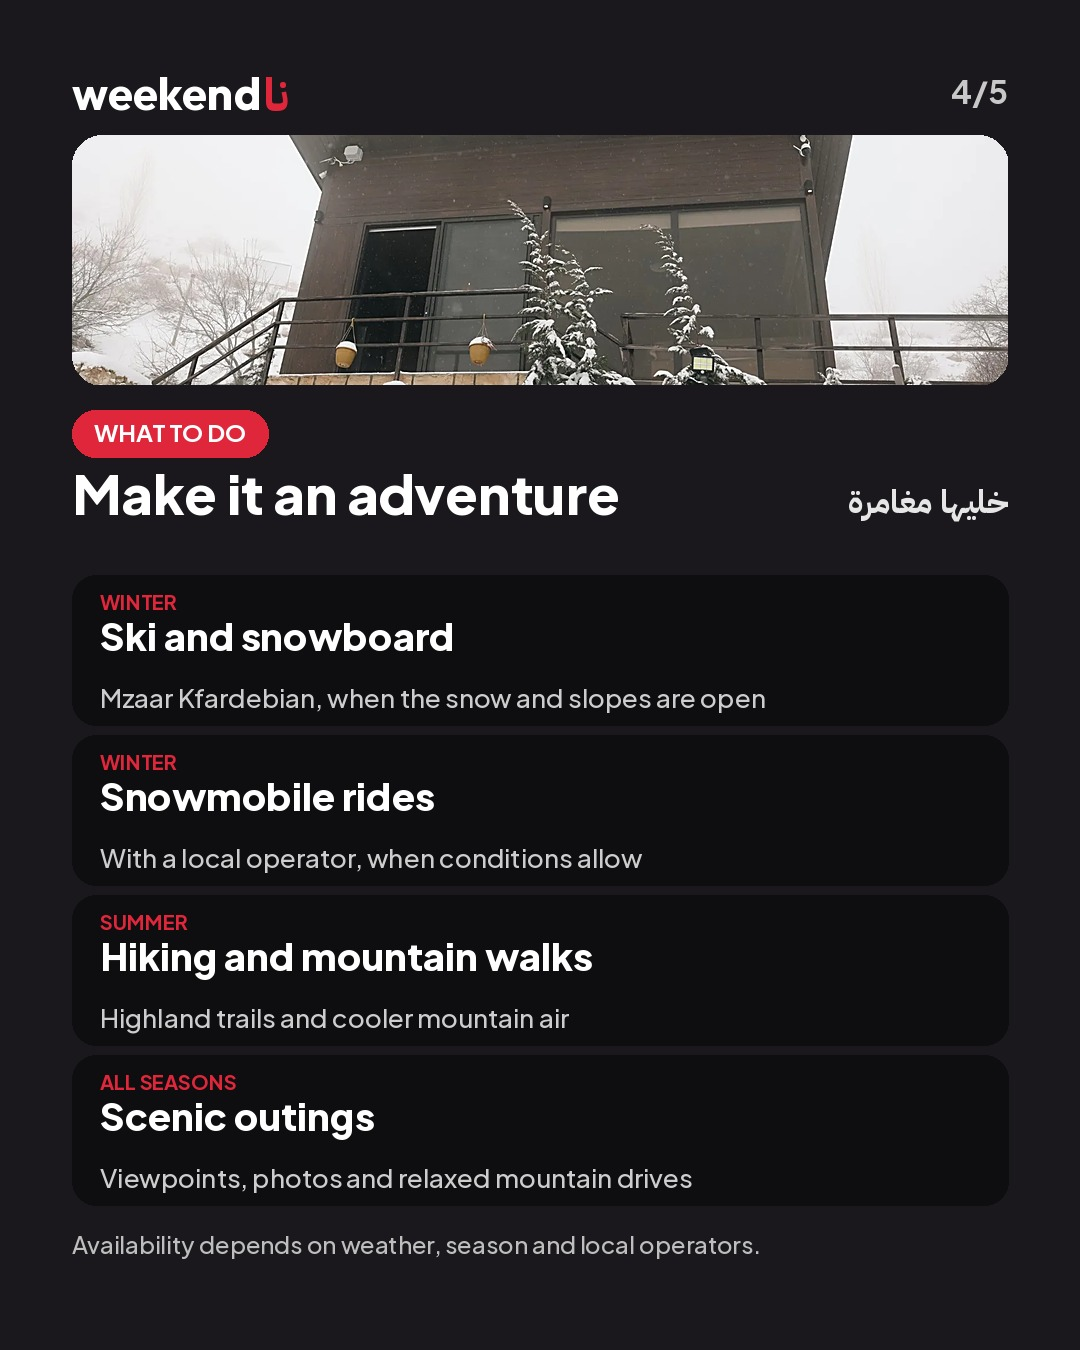
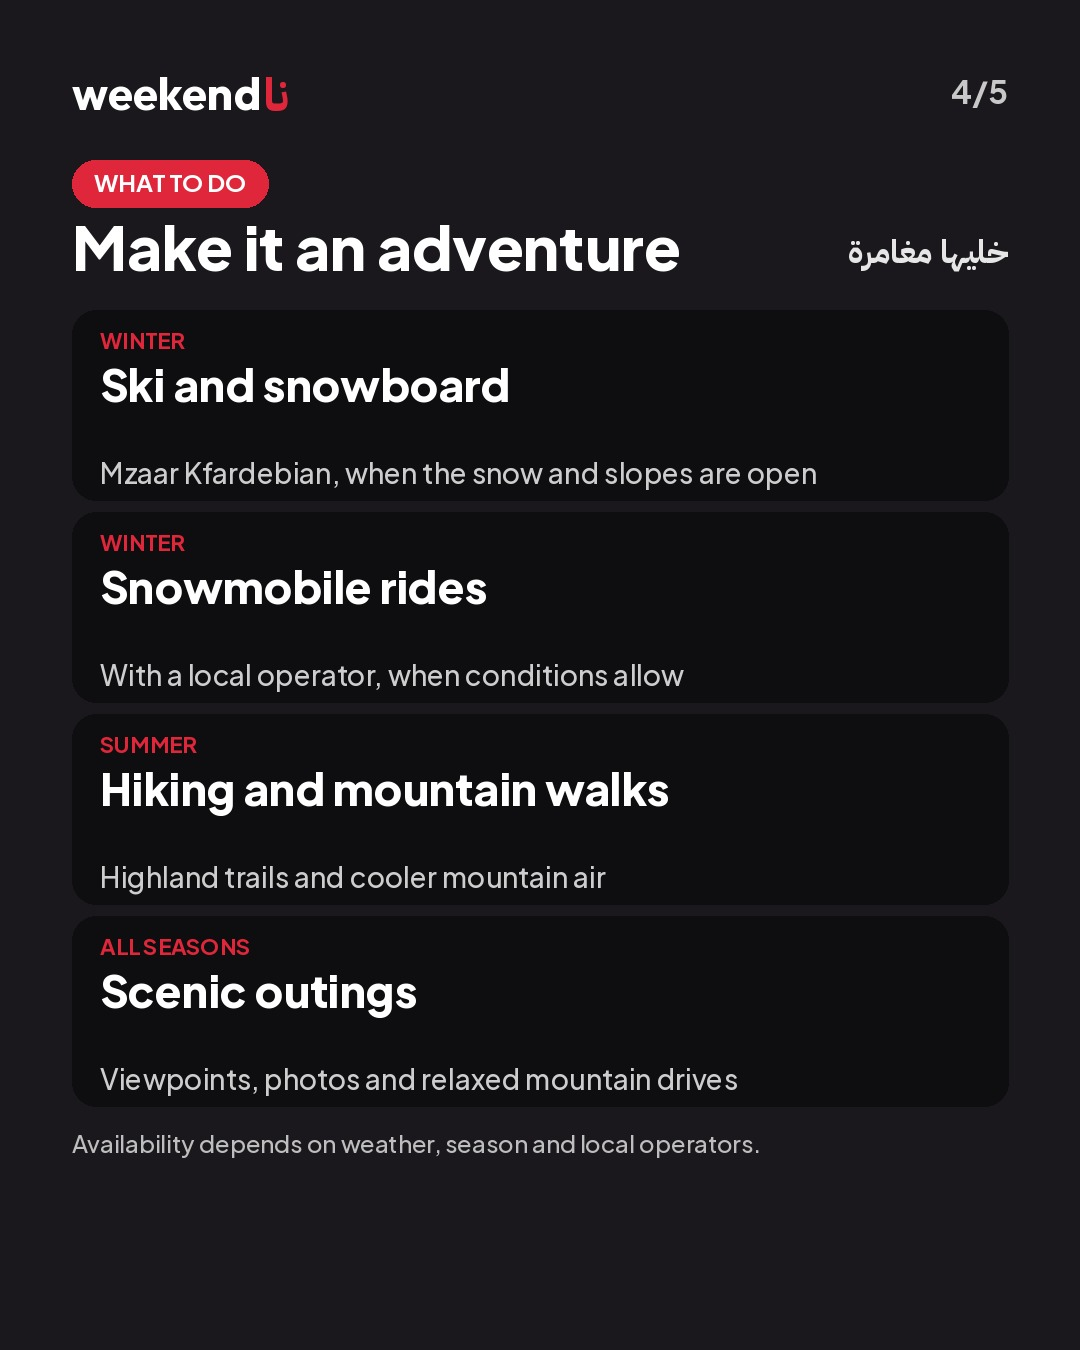
Faraya guide: no irrelevant photos on eat/do/places slides; photo-request drafts
Claude-Session: https://claude.ai/code/session_01QuaNDh39daRNLQcQ5xCceG

Changed region(s): [[0.0611, 0.0933, 0.9472, 0.9333], [0.7944, 0.3422, 0.9167, 0.4044]]

diff --git a/tools/examples/make_faraya_guide.py b/tools/examples/make_faraya_guide.py
@@ -14,40 +14,45 @@ place_slide(P("fvc/26-01"), f"{O}/guide-3.jpg", 2, 5, "Where to stay", "Stay · 
             ["A chimney in every chalet", "A heated pool on site", "From a studio for 2 to a chalet for 7"], "From $150 a night", "شاليهات مع شومينيه ومسبح مدفّأ")
 
 def list_slide(photo, out, num, total, tag, title, title_ar, items, note, cy=0.5):
-    """Guide slide: photo strip, section pill, title, up to 5 cards (category, name, one line), note. items = [(cat, name, line)]"""
+    """Guide slide: optional photo strip (ONLY a photo of the places listed; none is shown otherwise), section pill, title, cards (category, name, one line), note."""
     DARK = (26, 24, 28); CARD = (14, 13, 16)
     img = Image.new("RGB", (W, H), DARK); d = ImageDraw.Draw(img); logo(d, M, 64)
     t = f"{num}/{total}"; d.text((W - M - d.textlength(t, font=jak(700, 32)), 70), t, font=jak(700, 32), fill=(200, 200, 200))
-    pw, ph = W - 2 * M, 250
-    p = cover(photo, pw, ph, cy=cy).filter(ImageFilter.UnsharpMask(radius=1.4, percent=70, threshold=2))
-    m = Image.new("L", (pw, ph), 0); ImageDraw.Draw(m).rounded_rectangle((0, 0, pw, ph), radius=30, fill=255)
-    img.paste(p, (M, 135), m); d = ImageDraw.Draw(img)
-    pill(d, M, 410, tag.upper(), jak(700, 24))
-    d.text((M, 458), title, font=fit(d, title, W - 2 * M - 260, 800, 54), fill=WHITE)
-    rtext(d, W - M, 478, title_ar, arfit(d, title_ar, 250, 700, 32), (230, 230, 230))
-    n = len(items); ch = 124 if n >= 5 else 150; gap = 10; y = 560 if n >= 5 else 575
+    top = 135
+    if photo is not None:
+        pw, ph = W - 2 * M, 250
+        p = cover(photo, pw, ph, cy=cy).filter(ImageFilter.UnsharpMask(radius=1.4, percent=70, threshold=2))
+        m = Image.new("L", (pw, ph), 0); ImageDraw.Draw(m).rounded_rectangle((0, 0, pw, ph), radius=30, fill=255)
+        img.paste(p, (M, 135), m); d = ImageDraw.Draw(img); top = 410
+    else: top = 160
+    pill(d, M, top, tag.upper(), jak(700, 24))
+    d.text((M, top + 48), title, font=fit(d, title, W - 2 * M - 260, 800, 60 if photo is None else 54), fill=WHITE)
+    rtext(d, W - M, top + 68, title_ar, arfit(d, title_ar, 250, 700, 32), (230, 230, 230))
+    n = len(items); gap = 12; y = top + 150
+    ch = min(190, int((1255 - y - gap * (n - 1)) / n)); big = photo is None
     for cat, name, line in items:
         d.rounded_rectangle((M, y, W - M, y + ch), radius=24, fill=CARD)
-        d.text((M + 28, y + 14), cat.upper(), font=jak(700, 20), fill=RED)
-        d.text((M + 28, y + 36), name, font=fit(d, name, W - 2 * M - 56, 800, 34 if n >= 5 else 38), fill=WHITE)
-        d.text((M + 28, y + ch - (36 if n >= 5 else 44)), line, font=fit(d, line, W - 2 * M - 56, 500, 24 if n >= 5 else 26, 20), fill=(205, 205, 205)); y += ch + gap
-    d.text((M, y + 14), note, font=fit(d, note, W - 2 * M, 500, 24, 20), fill=(190, 190, 190))
+        d.text((M + 28, y + 16), cat.upper(), font=jak(700, 22 if big else 20), fill=RED)
+        d.text((M + 28, y + (46 if big else 36)), name, font=fit(d, name, W - 2 * M - 56, 800, (44 if big else 34)), fill=WHITE)
+        d.text((M + 28, y + ch - (46 if big else 36)), line, font=fit(d, line, W - 2 * M - 56, 500, (28 if big else 24), 20), fill=(205, 205, 205)); y += ch + gap
+    d.text((M, y + 10), note, font=fit(d, note, W - 2 * M, 500, 24, 20), fill=(190, 190, 190))
     img.save(out, quality=92)
 
-list_slide(P("acampar/42-05"), f"{O}/guide-4.jpg", 3, 5, "Where to eat", "Eat in Faraya", "وين تاكل بفاريا",
+# Photos of the listed places: put them in reels/public/photos/guide/<slug>.webp (permission required) and pass P("guide/<slug>") instead of None.
+list_slide(None, f"{O}/guide-4.jpg", 3, 5, "Where to eat", "Eat in Faraya", "وين تاكل بفاريا",
     [("Lebanese", "Jnaynit al Khaweja", "A garden-style stop for mezze and a long mountain meal"),
      ("Lebanese", "Em Sherif Deli", "Lebanese classics in a relaxed, casual setting"),
      ("Italian", "Mario e Mario", "Pizza and pasta"),
      ("Grill & seafood", "Meat the Fish", "Grilled meat and seafood for a hearty lunch or dinner"),
      ("Coffee", "LTTL BEAN", "A warm drink and something sweet")],
     "Check opening hours and seasonal availability before visiting.")
-list_slide(P("acampar/42-01"), f"{O}/guide-5.jpg", 4, 5, "What to do", "Make it an adventure", "خليها مغامرة",
+list_slide(None, f"{O}/guide-5.jpg", 4, 5, "What to do", "Make it an adventure", "خليها مغامرة",
     [("Winter", "Ski and snowboard", "Mzaar Kfardebian, when the snow and slopes are open"),
      ("Winter", "Snowmobile rides", "With a local operator, when conditions allow"),
      ("Summer", "Hiking and mountain walks", "Highland trails and cooler mountain air"),
      ("All seasons", "Scenic outings", "Viewpoints, photos and relaxed mountain drives")],
     "Availability depends on weather, season and local operators.")
-list_slide(P("acampar/42-04"), f"{O}/guide-6.jpg", 5, 5, "Places to visit", "Explore Faraya", "شو تزور بفاريا",
+list_slide(None, f"{O}/guide-6.jpg", 5, 5, "Places to visit", "Explore Faraya", "شو تزور بفاريا",
     [("Nature", "Chabrouh Dam", "A mountain reservoir and scenic spot for photos and a walk"),
      ("History", "Faqra Roman Ruins", "Ancient stone remains in a mountain setting"),
      ("Landmark", "Faqra Natural Bridge", "A dramatic natural rock bridge in the highlands"),
